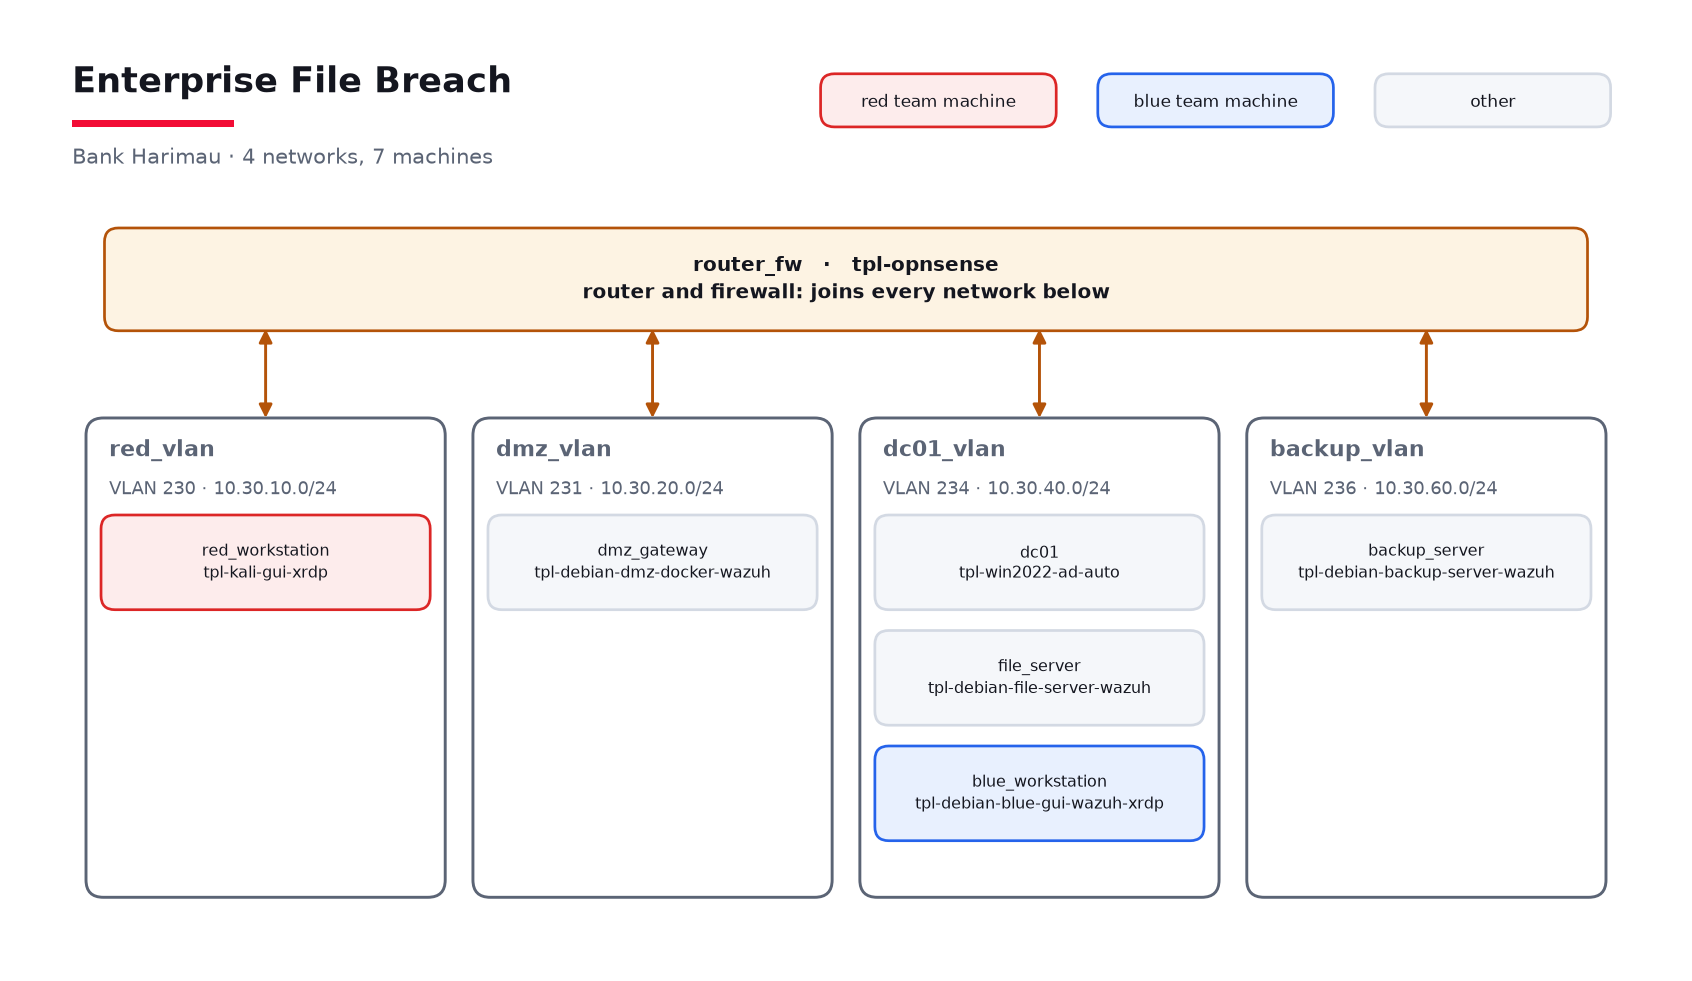
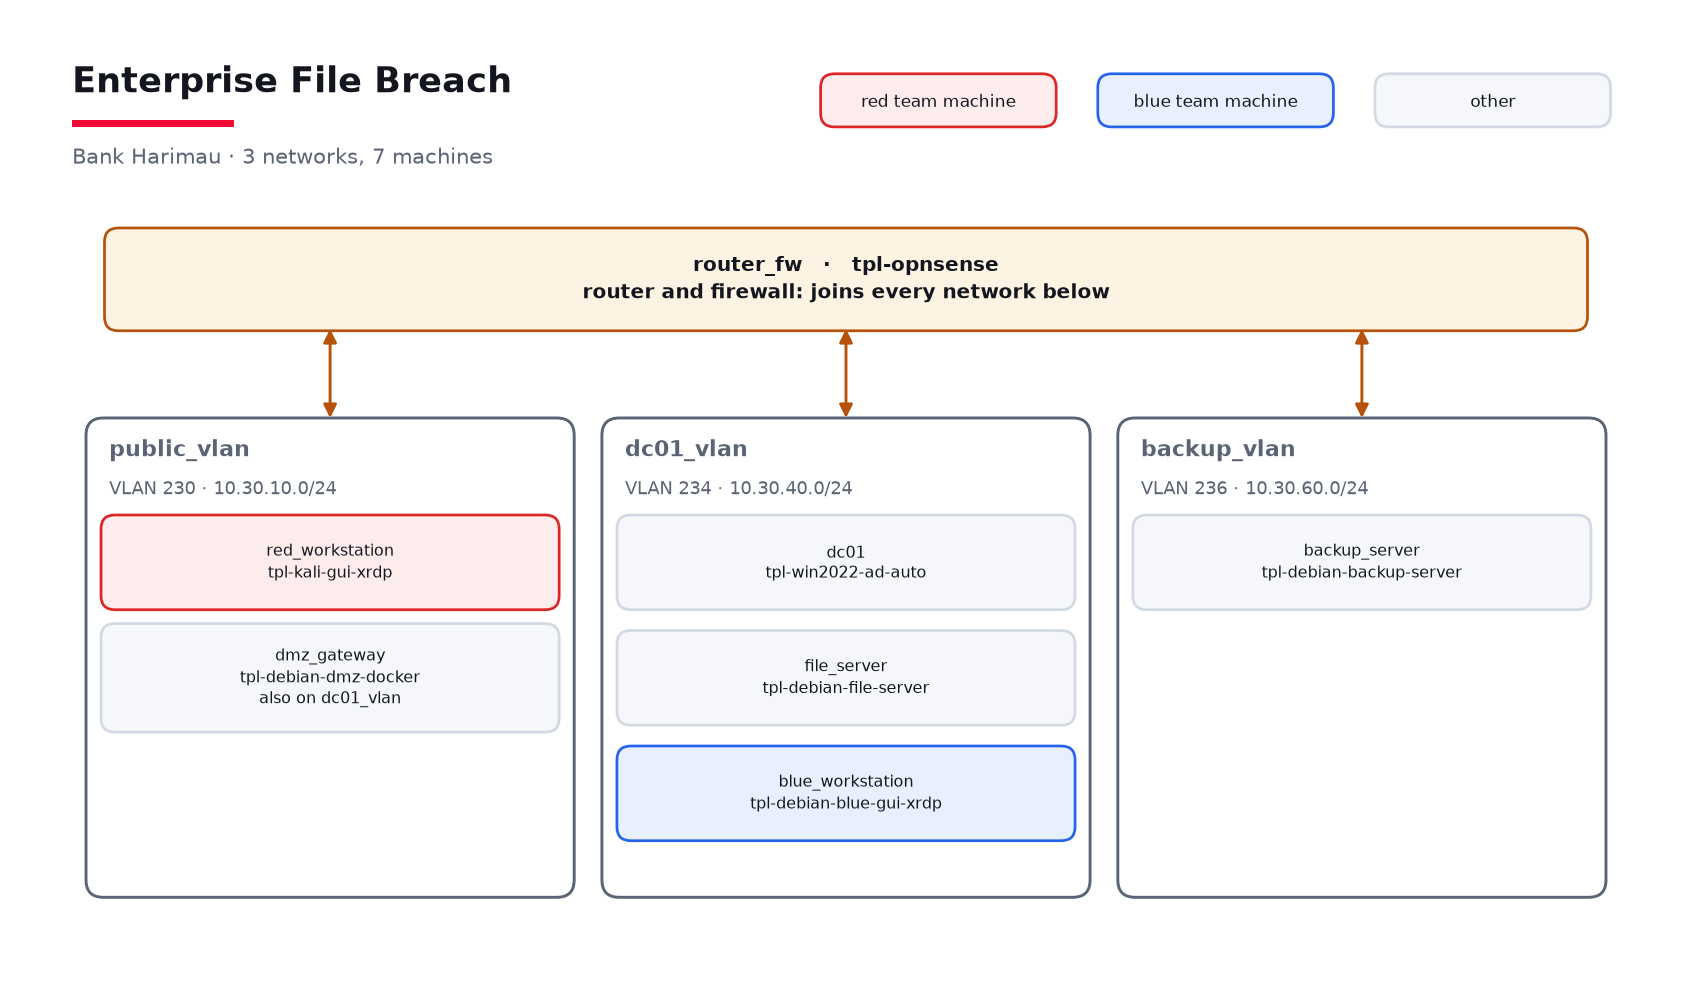
feat(scenario): red and the web host share a public network; the web host is the only way in
enterprise-file-breach now puts the red workstation and DMZ01 on one public
network. DMZ01 is dual-homed with a second leg on dc01_vlan, and no routing
rule joins the public network to the internal ones, so red must pivot through
DMZ01. Scenario version 8.

The runner gives only a host's first NIC a default gateway, so a dual-homed
Linux host does not get two default routes. The range map keeps a dual-homed
web host in the DMZ column; the diagram names a host's extra legs. The
tpl-debian-dmz-docker Proxmox template needs a second NIC.

diff --git a/apps/web/src/features/threat-map/map/model.ts b/apps/web/src/features/threat-map/map/model.ts
@@ -57,7 +57,7 @@ function laneSide(name: string): EdgeSide {
   const lower = String(name ?? '').toLowerCase();
   if (lower.includes('red')) return 'red';
   if (lower.includes('blue')) return 'blue';
-  if (lower.includes('dmz') || lower.includes('wan') || lower.includes('shared')) return 'shared';
+  if (lower.includes('dmz') || lower.includes('public') || lower.includes('wan') || lower.includes('shared')) return 'shared';
   return 'neutral';
 }
 
@@ -78,7 +78,10 @@ export function layoutTopology(assets: MapAsset[], networks: MapNetwork[]): Layo
     const role = String(asset.role ?? '').toLowerCase();
     const nets = netNames(asset);
     const meta = deviceMeta(asset);
-    if (meta.cls === 'router' || nets.length > 1) return 'transit';
+    if (meta.cls === 'router') return 'transit';
+    // A web host with a leg on the public network and another inside (a dual-homed DMZ host) stays in the DMZ column.
+    if (enterprise && (role.includes('dmz') || role.includes('web'))) return 'dmz';
+    if (nets.length > 1) return 'transit';
     if (role.includes('red') || role.includes('attacker') || meta.cls === 'kali') return 'red';
     if (!enterprise) return 'blue';
     if (nets.some((n) => n.includes('dmz')) || role.includes('dmz') || role.includes('web')) return 'dmz';
@@ -162,7 +165,7 @@ export function layoutTopology(assets: MapAsset[], networks: MapNetwork[]): Layo
       .join(' / ');
   const zoneText: Record<string, { title: string; subtitle: string }> = enterprise
     ? {
-        red: text(findNet(/red/i), 'red access'),
+        red: text(findNet(/red|public/i), 'red access'),
         dmz: text(findNet(/dmz/i), 'dmz'),
         transit: text({}, 'transit'),
         identity: { title: 'identity', subtitle: vlans(/dc0[12]/i) },

diff --git a/apps/web/src/features/threat-map/map/model.test.ts b/apps/web/src/features/threat-map/map/model.test.ts
@@ -68,6 +68,23 @@ describe('layout', () => {
     expect(layout.width).toBe(1360);
     expect(layout.zones.find((z) => z.key === 'identity')?.subtitle).toContain('VLAN 234');
   });
+  it('keeps a dual-homed web host in the DMZ column, not with the router', () => {
+    const assets: MapAsset[] = [
+      { role: 'red_workstation', template: 'tpl-kali-gui-xrdp', networks: ['public_vlan'] },
+      { role: 'router_fw', template: 'tpl-opnsense', networks: ['public_vlan', 'dc01_vlan'] },
+      { role: 'dmz_gateway', template: 'x', networks: ['public_vlan', 'dc01_vlan'] },
+      { role: 'dc01', template: 'tpl-win2022', networks: ['dc01_vlan'] },
+    ];
+    const nets: MapNetwork[] = [{ name: 'public_vlan', vlan_id: 230 }, { name: 'dc01_vlan', vlan_id: 234 }];
+    const layout = layoutTopology(assets, nets);
+    const zoneOf = (role: string) => {
+      const node = layout.nodes.find((n) => n.asset.role === role)!;
+      return layout.zones.find((z) => node.x >= z.x && node.x <= z.x + z.w)?.key;
+    };
+    expect(zoneOf('dmz_gateway')).toBe('dmz');
+    expect(zoneOf('router_fw')).toBe('transit');
+    expect(layout.zones.find((z) => z.key === 'red')?.subtitle).toContain('VLAN 230');
+  });
   it('never lets two machine cards overlap, however many share a zone', () => {
     const many: MapAsset[] = Array.from({ length: 6 }, (_, i) => ({ role: `web_${i}`, template: 'x', networks: ['blue_vlan'] }));
     const layout = layoutTopology([simpleAssets[0], simpleAssets[1], ...many], simpleNets);

diff --git a/apps/web/e2e/map.spec.ts b/apps/web/e2e/map.spec.ts
@@ -23,7 +23,7 @@ test('the live range map: inspect, layers, zoom, pan, fit, story feed, keyboard'
   await expect(details).toHaveCount(0);
 
   // Inspect a link, then jump to one of its machines from the link panel.
-  await page.getByRole('button', { name: /Inspect red_vlan link/ }).dispatchEvent('click');
+  await page.getByRole('button', { name: /Inspect public_vlan link/ }).first().dispatchEvent('click');
   await expect(details.getByText('Link inspection')).toBeVisible();
   await details.getByRole('button').filter({ hasText: /red workstation/i }).first().click();
   await expect(details.getByText('Node inspection')).toBeVisible();

diff --git a/tools/gen_diagrams.py b/tools/gen_diagrams.py
@@ -393,13 +393,15 @@ def range_diagram(r: Range) -> None:
         for j, asset in enumerate(r.assets_in(net.name)):
             edge, face = SIDE_STYLE[asset.side]
             label = asset.role + (f"  ×{asset.count}" if asset.count > 1 else "")
+            # A host that bridges networks (a dual-homed web server) names its other legs.
+            also = f"\nalso on {', '.join(asset.networks[1:])}" if len(asset.networks) > 1 else ""
             pill(
                 ax,
                 cx,
                 0.4 + zone_h - 1.25 - j * 1.0,
                 w - 0.3,
-                0.78,
-                f"{label}\n{asset.template}",
+                0.9 if also else 0.78,
+                f"{label}\n{asset.template}{also}",
                 edge=edge,
                 face=face,
                 size=7.6,

diff --git a/apps/api/app/runners/runner_base.py b/apps/api/app/runners/runner_base.py
@@ -129,7 +129,10 @@ def _static_ip_configs(asset: dict, scenario_spec: dict) -> dict[int, str]:
             else usable[min(max(0, host - 1), len(usable) - 1)]
         )
         configs[nic_index] = f"ip={address}/{subnet.prefixlen}"
-        if base_role != "router_fw":
+        # Only the first NIC gets a default gateway. A dual-homed host (a web
+        # server bridging two networks) with two default routes would send
+        # traffic out of whichever NIC the guest happens to prefer.
+        if base_role != "router_fw" and nic_index == 0:
             configs[nic_index] += f",gw={usable[0]}"
     return configs
 

diff --git a/apps/api/tests/test_runner.py b/apps/api/tests/test_runner.py
@@ -395,6 +395,19 @@ def test_static_ip_configs_use_declared_host_number() -> None:
     )
 
 
+def test_dual_homed_host_gets_one_default_gateway() -> None:
+    scenario = {
+        "networks": [
+            {"name": "public", "cidr": "10.30.10.0/24"},
+            {"name": "internal", "cidr": "10.30.40.0/24"},
+        ]
+    }
+    configs = _static_ip_configs(
+        {"role": "dmz_gateway", "networks": ["public", "internal"]}, scenario
+    )
+    assert configs == {0: "ip=10.30.10.40/24,gw=10.30.10.1", 1: "ip=10.30.40.40/24"}
+
+
 # --- happy path -------------------------------------------------------------
 
 

diff --git a/docs/file-breach-enterprise-standard.md b/docs/file-breach-enterprise-standard.md
@@ -2,14 +2,15 @@
 
 ## Compact baseline
 
-- Seven disposable VMs across four VLANs, sized for a constrained host.
+- Seven disposable VMs across three VLANs, sized for a constrained host.
 - Red workstation, router, DMZ host, DC01, file server, backup server, and blue workstation.
+- Red and the DMZ host share one public network. The DMZ host also has a leg on the internal
+  network and is the only way in: no route joins the public network to the internal ones.
 - Static addresses and routed access are deterministic per run.
 - Flags and objectives are seeded from the scenario catalog.
 - Blue investigation evidence is seeded onto the blue workstation as a compact
   timeline bundle alongside native guest logs.
-- No external SIEM is required. Legacy template names are retained until
-  replacement images are certified; Linux clones remove the retired agent.
+- No external SIEM is required.
 - Generated VMs are stopped and destroyed during cleanup.
 
 ## Upgrade track

diff --git a/docs/template-attack-chain.md b/docs/template-attack-chain.md
@@ -13,6 +13,11 @@ those root-only flag files without changing permissions.
 
 **Attack surface:** HTTP port 80 (Docker Flask app)
 
+**Networks:** dual-homed. `net0` is on the public network (with the red workstation) and `net1` is on the
+internal `dc01_vlan`. This is the pivot point: red has no route to the internal network except through this
+host. The runner gives each NIC a static address (10.30.10.40 and 10.30.40.40) and a default gateway on `net0`
+only, so the template must bring up both interfaces and must not hard-code a second default route.
+
 ### Services to bake in
 
 A Flask app in a Docker container (`/opt/oxblood-app/`), started by systemd unit `oxblood-webapp.service`, running as root (or the container privileged).
